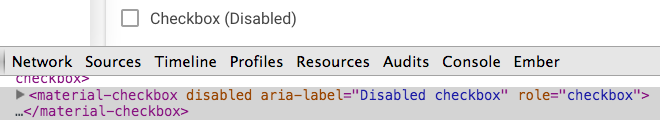
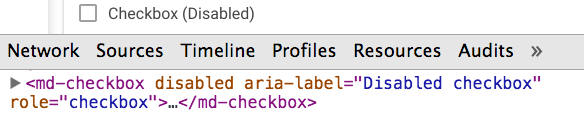
Updating slides

diff --git a/index.html b/index.html
@@ -52,12 +52,6 @@
 				</section>
 
 				<section>
-					<h2 class="h1-style">Angular Accessibility</h2>
-					<p>Marcy Sutton, Seattle, USA<br>Web Developer, Angular Material Contributor</p>
-					<p><a href="http://marcysutton.github.io/angular-a11y">http://marcysutton.github.io/angular-a11y</a></p>
-				</section>
-
-				<section>
 					<h2 class="h1-style" style="margin-bottom: 0.25em;">What is Accessibility?</h2>
 					<p class="big-italic">Everyone can perceive, understand, navigate, and interact with the Web, and  they can contribute to the Web.</p>
 					<aside class="notes">
@@ -71,6 +65,12 @@
 				<section>
 					<h2>Accessibility is about</h2>
 					<h3 class="h1-style" style="font-size: 14rem;">PEOPLE.</h3>
+				</section>
+
+				<section>
+					<h2 class="h1-style">Angular Accessibility</h2>
+					<p>Marcy Sutton, Seattle, USA<br>Web Developer, Angular Material Contributor</p>
+					<p><a href="http://marcysutton.github.io/angular-a11y">http://marcysutton.github.io/angular-a11y</a></p>
 				</section>
 
 				<section>
@@ -134,13 +134,13 @@
             <h3 class="h4-style">States</h3>
             <p>The current condition of this particular thing</p>
             <pre><code class="html">
-    &lt;md-input aria-disabled="true"&gt;
+    &lt;md-input-group aria-disabled="true"&gt;
             </code></pre>
           </div>
           <div class="definition inset-width">
             <h3 class="h4-style">Properties</h3>
             <pre><code class="html">
-  &lt;md-radio-button aria-label="Unsubscribe"&gt;
+  &lt;md-checkbox aria-label="Unsubscribe"&gt;
             </code></pre>
           </div>
      		</section>
@@ -403,6 +403,7 @@
           <h2>Resources</h2>
           <ul>
             <li><a href="https://docs.angularjs.org/api/ngAria" target="_blank" title="Link opens in a new window">ngAria in Angular</a></li>
+            <li><a href="http://www.w3.org/TR/aria-in-html/" target="_blank" title="Link opens in a new window">Using ARIA in HTML</a></li>
             <li><a href="http://substantial.com/blog/2014/07/22/how-i-audit-a-website-for-accessibility/" target="_blank" title="Link opens in a new window">Auditing for Accessibility</a></li>
             <li><a href="https://chrome.google.com/webstore/detail/accessibility-developer-t/fpkknkljclfencbdbgkenhalefipecmb?hl=en" target="_blank" title="Link opens in a new window">Chrome Accessibility Dev Tools</a></li>
             <li><a href="http://webaim.org/projects/screenreadersurvey5/" target="_blank" title="Link opens in a new window">WebAIM Screen Reader Survey</a></li>
